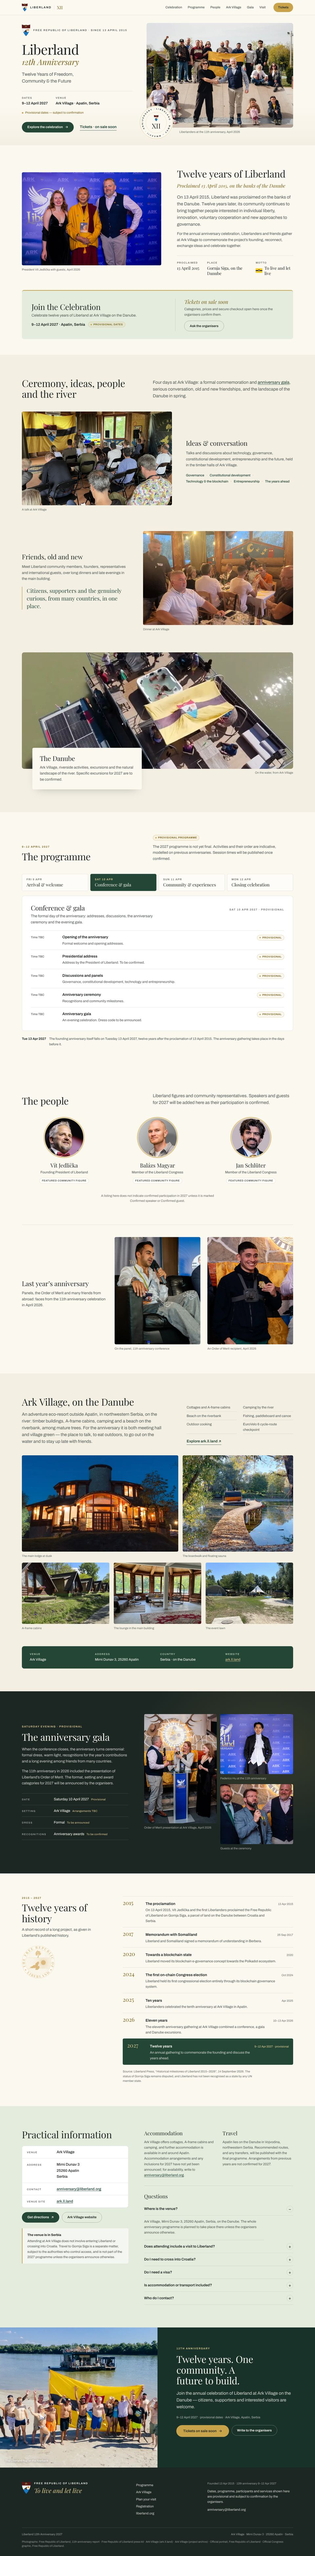
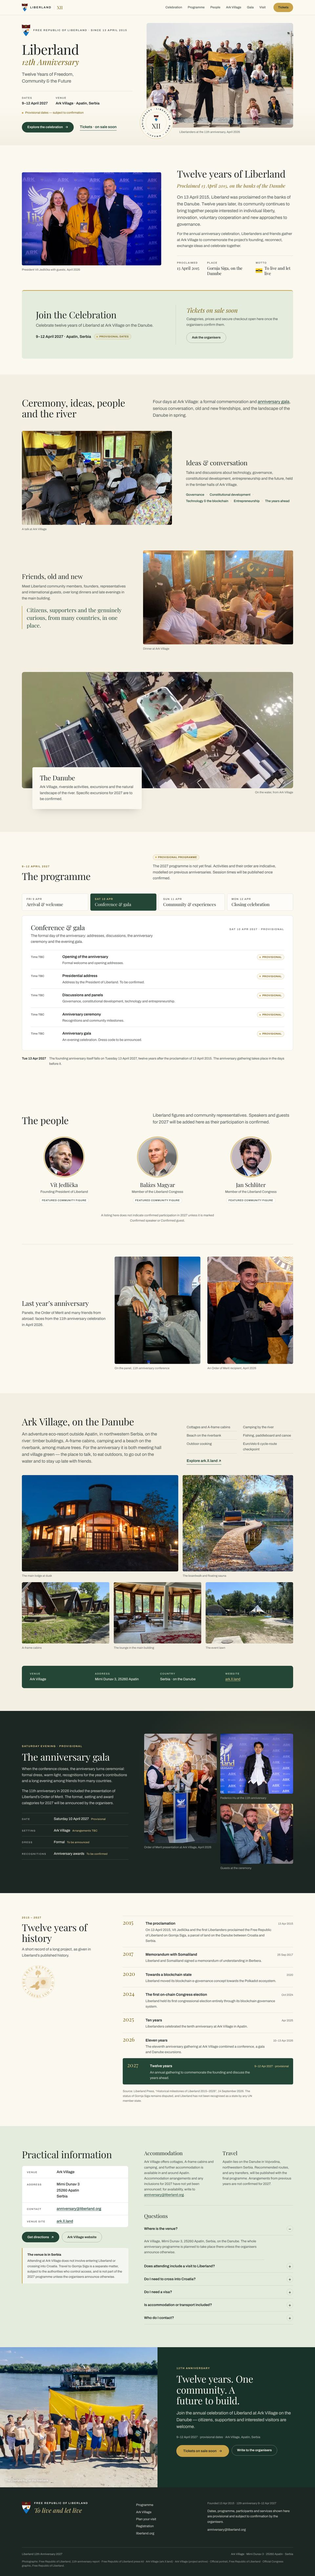
Anniversary 2027: give the ticket band a little more presence
More padding (64px), a slightly larger headline, subheading and status line,
and more spacing between them. The band goes from about 300px to about 385px
on desktop and stays horizontal. Tests: npm test and npm run test:tickets pass.

Claude-Session: https://claude.ai/code/session_01VRJ32KJ9jMP6CNk1vRLUar

diff --git a/anniversary-2027/src/styles/anniversary.css b/anniversary-2027/src/styles/anniversary.css
@@ -149,14 +149,14 @@ body{margin:0;background:var(--ivory)}
 .btn-sm{min-height:38px;padding:0 16px;font-size:14px}
 #about{padding-bottom:64px}
 .tix-sec{padding-block:0 72px}
-.band{display:grid;grid-template-columns:minmax(0,6fr) minmax(0,5fr);gap:24px 64px;align-items:center;padding:36px 44px;background:var(--spring);border-radius:var(--r-lg);border-top:3px solid var(--gold)}
-.band .h2{font-size:clamp(28px,2.6vw,36px)}
-.band-sub{color:var(--soft);margin-top:6px}
-.band-when{display:flex;flex-wrap:wrap;align-items:center;gap:8px 14px;margin-top:14px;font-weight:600}
-.band-r{padding-left:40px;border-left:1px solid rgba(37,43,42,.16)}
-.band-state{font-family:var(--f-display);font-style:italic;font-size:24px;line-height:1.2;color:var(--gold-text)}
-.band-text{color:var(--soft);font-size:15.5px;margin-top:6px}
-.band-cta{display:flex;flex-wrap:wrap;align-items:center;gap:12px 22px;margin-top:16px}
+.band{display:grid;grid-template-columns:minmax(0,6fr) minmax(0,5fr);gap:28px 72px;align-items:center;padding:64px 64px;background:var(--spring);border-radius:var(--r-lg);border-top:3px solid var(--gold)}
+.band .h2{font-size:clamp(30px,3vw,42px)}
+.band-sub{color:var(--soft);font-size:clamp(17px,1.35vw,19px);margin-top:10px}
+.band-when{display:flex;flex-wrap:wrap;align-items:center;gap:8px 14px;margin-top:22px;font-weight:600;font-size:17.5px}
+.band-r{padding:8px 0 8px 48px;border-left:1px solid rgba(37,43,42,.16)}
+.band-state{font-family:var(--f-display);font-style:italic;font-size:28px;line-height:1.2;color:var(--gold-text)}
+.band-text{color:var(--soft);font-size:16px;margin-top:10px}
+.band-cta{display:flex;flex-wrap:wrap;align-items:center;gap:12px 22px;margin-top:22px}
 .band-note{font-size:13.5px;color:var(--mute);margin-top:12px}
 .band-legal{display:flex;gap:16px;font-size:13.5px;margin-top:8px}
 .tix{border-top:1px solid rgba(37,43,42,.16)}
@@ -347,8 +347,8 @@ body{margin:0;background:var(--ivory)}
   .nav .nav-tix-m{display:inline-flex;margin-left:auto;min-height:40px;padding:0 16px;font-size:14px}
   .nav-tix-m+.menu-btn{margin-left:0}
   .sticky-tix{display:flex}
-  .band{grid-template-columns:1fr;padding:32px}
-  .band-r{padding-left:0;border-left:0;padding-top:20px;border-top:1px solid rgba(37,43,42,.16)}
+  .band{grid-template-columns:1fr;padding:48px 40px}
+  .band-r{padding:24px 0 0;border-left:0;border-top:1px solid rgba(37,43,42,.16)}
   .band-r .tix{border-top:0}
   .band-r .tix-row:first-child{padding-top:0}
   html.has-sticky .foot{padding-bottom:110px}
@@ -441,7 +441,7 @@ body{margin:0;background:var(--ivory)}
   .reg-btns .btn{flex:1 1 auto}
   .nav .nav-tix-m{padding:0 14px}
   .tix-sec{padding-block:0 52px}
-  .band{padding:26px 20px}
+  .band{padding:36px 22px}
   .tix-row{grid-template-columns:minmax(0,1fr) auto;row-gap:10px}
   .tix-row>div{grid-column:1 / -1}
   .tix-row .btn{justify-self:end}
